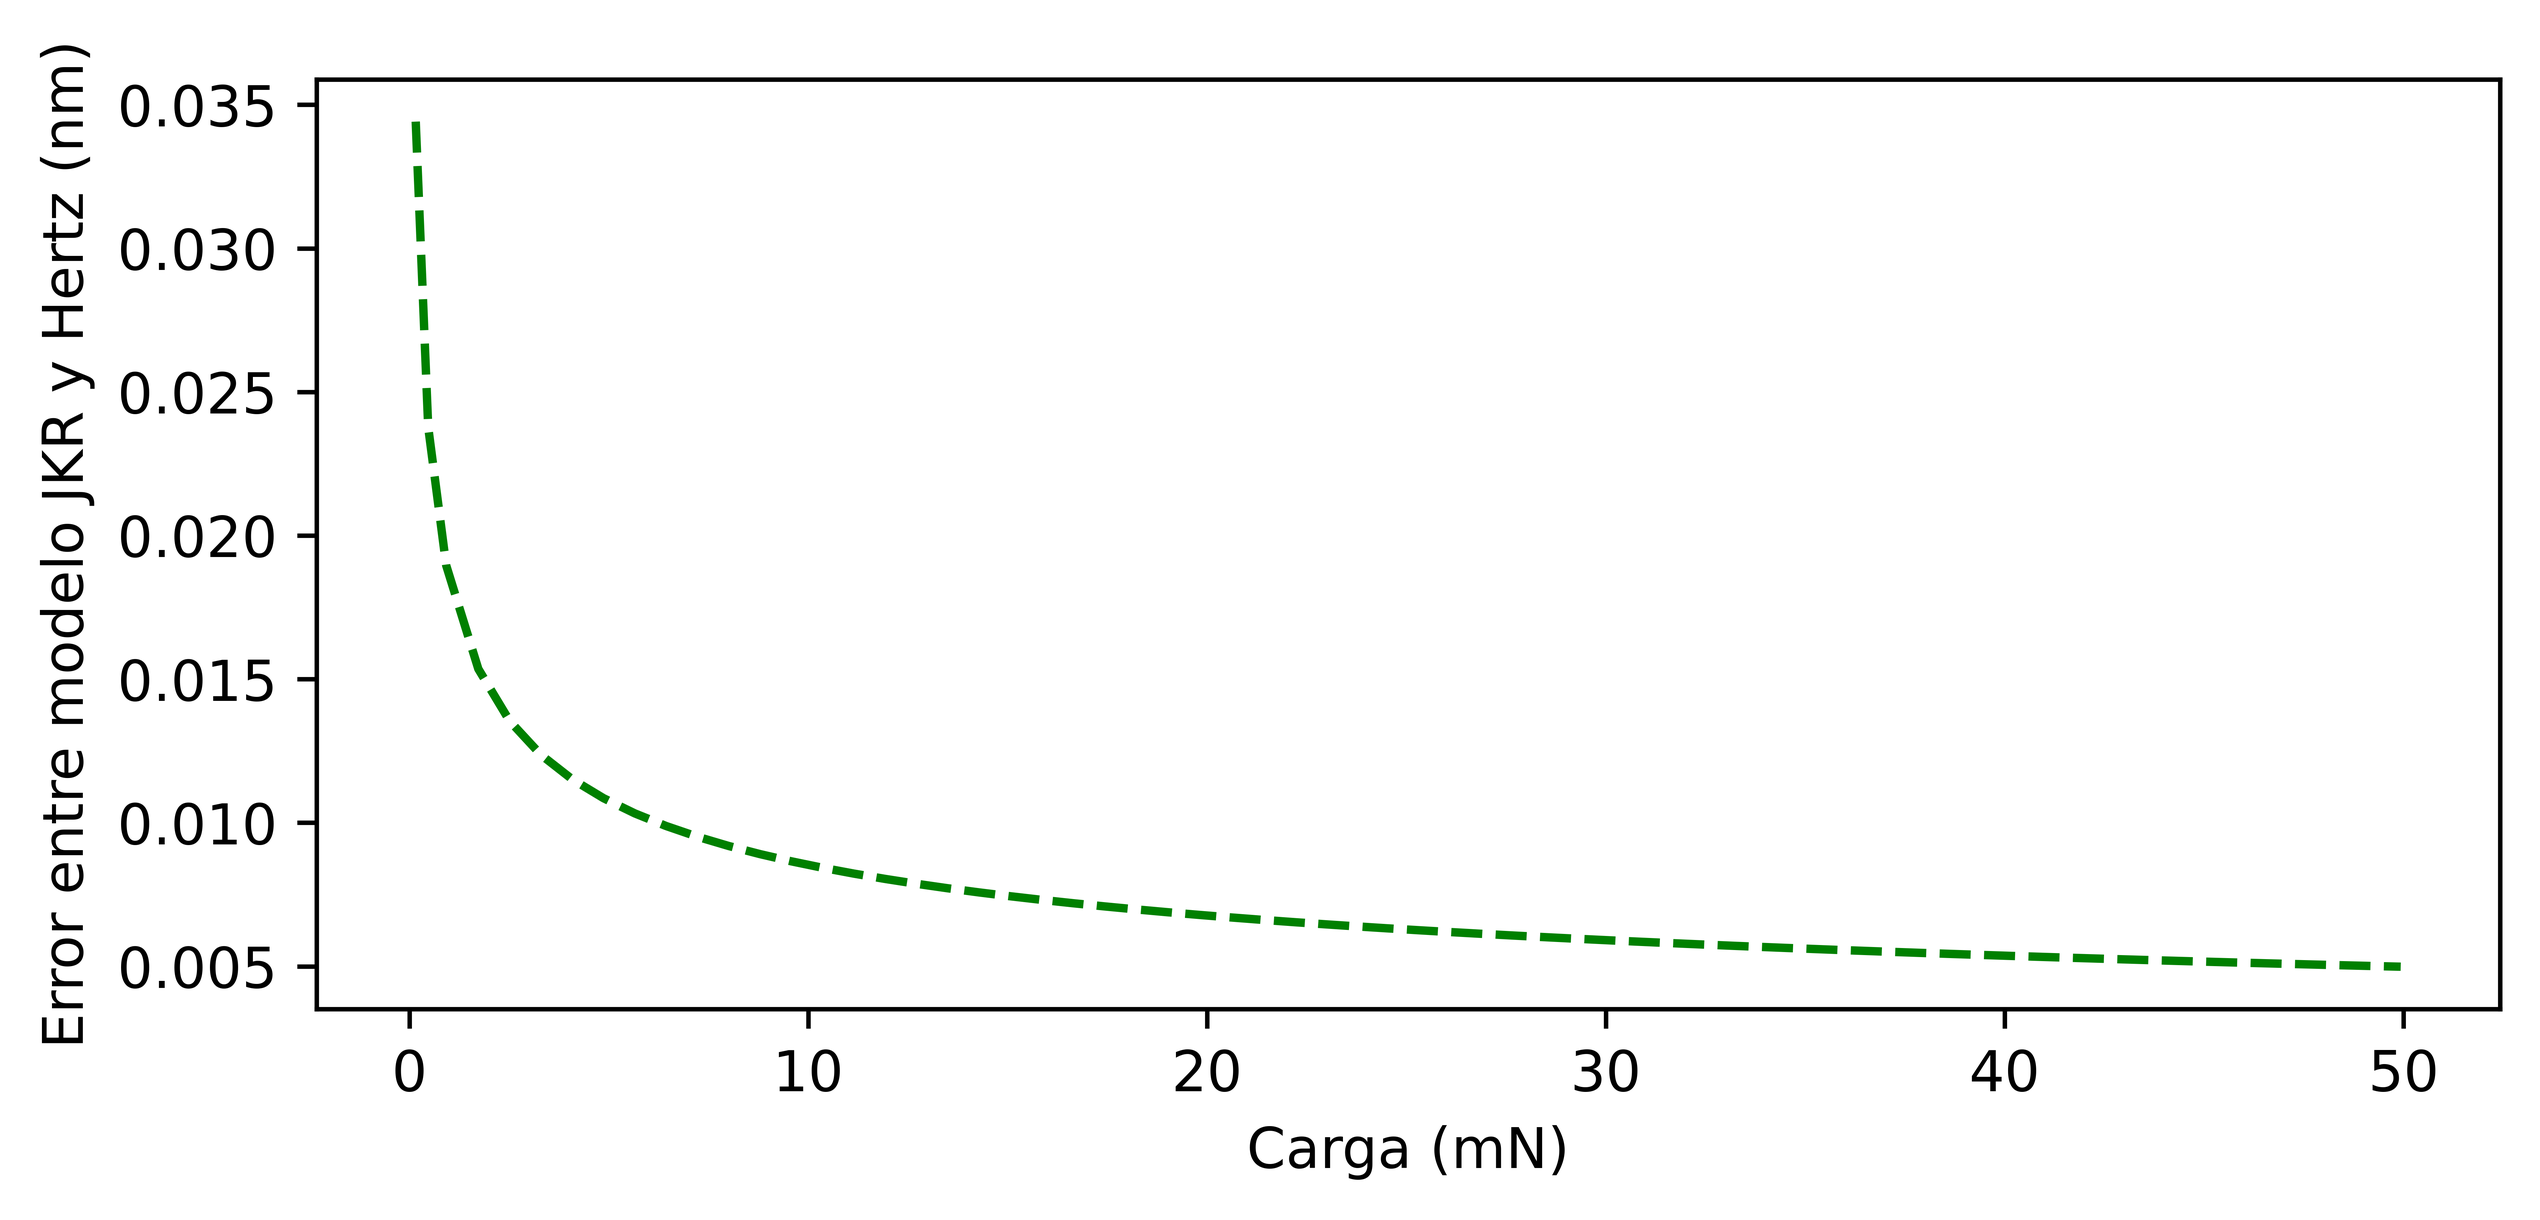
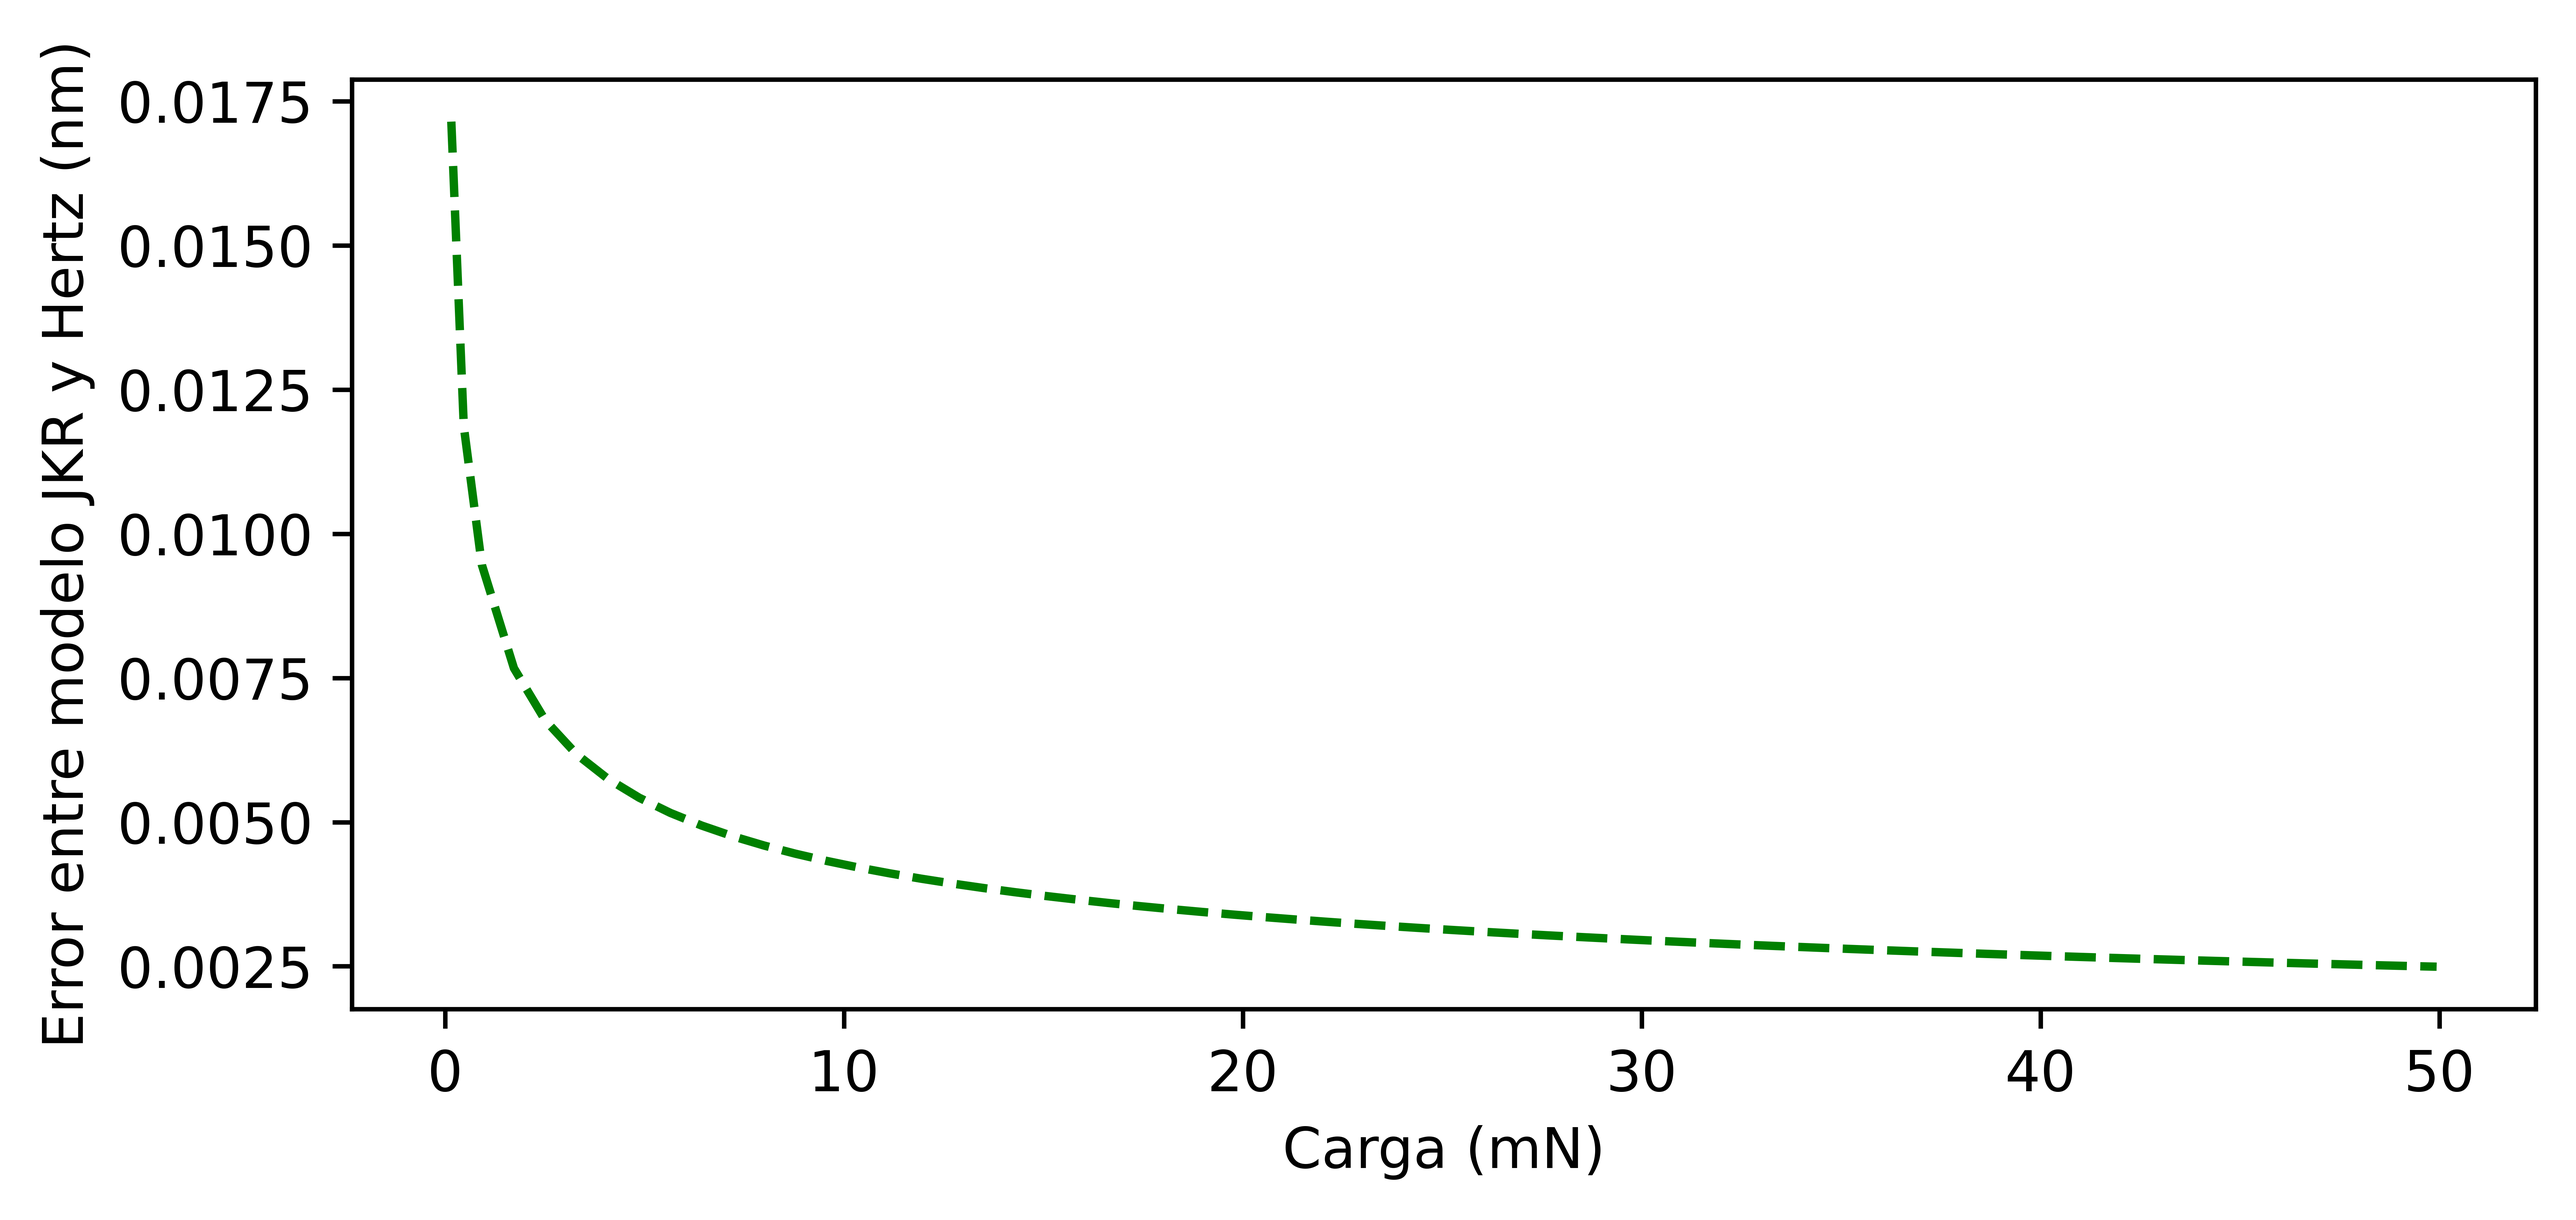
Add files via upload

diff --git a/Tareas/Proyecto Integrador/Proyecto.py b/Tareas/Proyecto Integrador/Proyecto.py
@@ -13,11 +13,10 @@ g = 300*(10**-3) #J/m2
 
 hertz_list = []
 jkr_list = []
-Fround = []
 diffa = []
 
 def a(F):
-    return (((3*R)/(4*E))*(F + 6*g*pi*R + np.sqrt((12*g*pi*R*F) + (6*g*pi*R)**2)))**(1/3)
+    return (((3*R)/(4*E))*(F + 3*g*pi*R + np.sqrt((6*g*pi*R*F) + (3*g*pi*R)**2)))**(1/3)
 
 def d_hertz(F):
     return (((9*(F**2))/(16*(E**2)*R))**(1/3))*(10**9) #nm
@@ -28,7 +27,7 @@ def d_jkr(F, a, p1, p2):
 for f in F:
     A = a(f)
     p1 = (2*A*E)/(pi*R)
-    p2 = -1 * np.sqrt((4*g*E)/(pi*A))
+    p2 = -1 * np.sqrt((2*g*E)/(pi*A))
     hertz = d_hertz(f)
     jkr = d_jkr(f, A, p1, p2)
     hertz_list.append(hertz)
